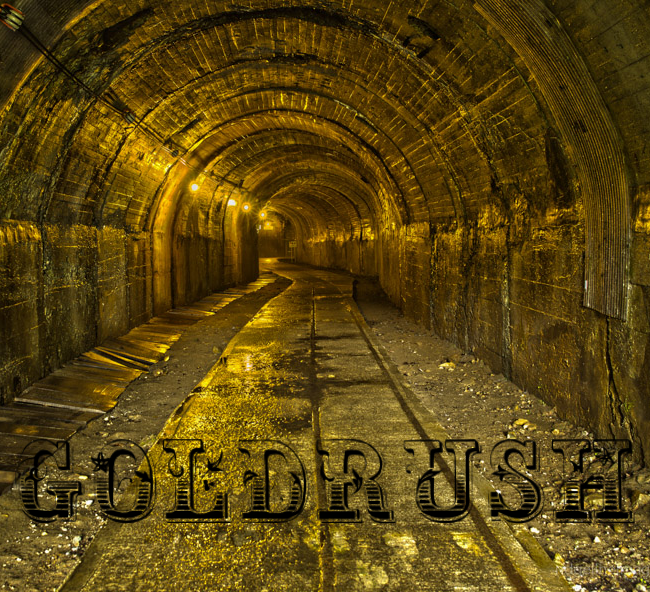
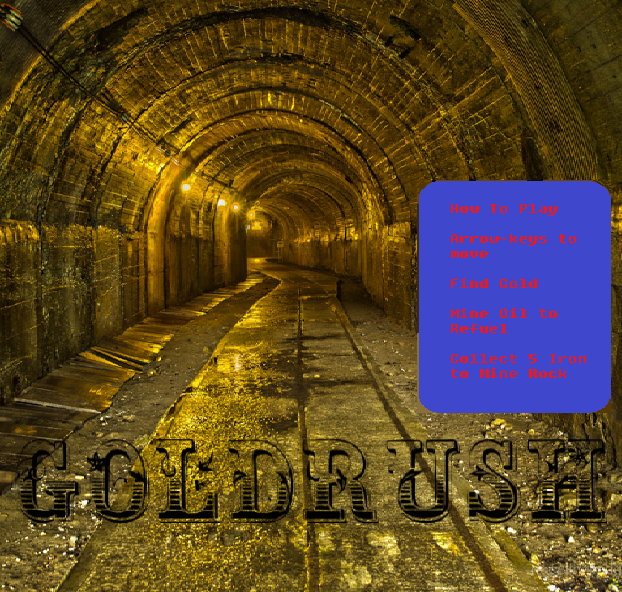
fini

diff --git a/index.js b/index.js
@@ -6,6 +6,8 @@ let rock;
 let gold;
 let dug;
 
+let digSound;
+
 let playerLeft;
 let playerDown;
 let playerRight;
@@ -42,20 +44,23 @@ function preload(){
     iron = loadImage(`img/iron.png`);
     oil = loadImage(`img/oil.png`);
     rock = loadImage(`img/rock.png`);
-    dug = loadImage(`img/dug.png`)
+    dug = loadImage(`img/dug.png`);
+
+    //soundFormats('wav');
+    //digSound = new sound(`img/digging.wav`);
 
     playerLeft = loadImage(`img/player-left.png`);
     playerDown = loadImage(`img/player-down.png`);
     playerRight = loadImage(`img/player-right.png`);
     playerNorm = loadImage(`img/player-norm.png`);
 
-    startScreen = loadImage(`img/start.png`);
+    startScreen = loadImage(`img/start-background-overlay - Copy.png`);
     gameOverScreen = loadImage(`img/newGameOver-background.png`);
     winScreen = loadImage(`img/winScreen.png`);
 }
 
 function setup(){
-    createCanvas(650,1150);
+    createCanvas(650,1500);
     //generateMap(); 
    makeMap();
    
@@ -63,7 +68,7 @@ function setup(){
 }
 
 
-
+/*
 function generateMap(){
      matrix = [
         
@@ -93,12 +98,12 @@ function generateMap(){
 
 ]
 }
-
+*/
 function makeMap() {
     // random map, but I want first 3-4 layers to be empty and bottom two to be rock and gold.
     //to make the first layers empty, change the 0 in the second forloop to be j= 3, then it starts at the third layer
     const row = 13;
-    const col = 23;
+    const col = 25;
     mapArr = [];
   
     for (let i = 1; i < col; i++) {
@@ -116,7 +121,6 @@ function makeMap() {
         for (let g = 0; g < row; g++) { 
             let tempObj = {ground: rock,x:g*50 ,y:i*50};
             mapArr[i].push(tempObj);}
-           
      }else{ 
         for (let k = 0; k < row; k++) { 
             let tempObj = {ground: gold,x:k*50 ,y:i*50};
@@ -220,13 +224,15 @@ function keyPressed(){
     if(keyCode === LEFT_ARROW){
         player.x===0 ? null :player.x-= 50;
         fuel= fuel - 1;
-
+       // digSound.play();
     }else if ( keyCode === RIGHT_ARROW){
         player.x===600 ? null : player.x+= 50;
         fuel= fuel - 1;
+      //  digSound.play();
     }  else if (keyCode === DOWN_ARROW){
         fuel= fuel - 1;
      player.y+= 50;
+    // digSound.play();
     }else if (keyCode === UP_ARROW){
         player.y===0 ? null :player.y-= 50;
         fuel= fuel - 1;

diff --git a/index.html b/index.html
@@ -10,6 +10,7 @@
         <script type="text/javascript" src="index.js"></script>
         <script src="https://cdn.jsdelivr.net/npm/p5@1.6.0/lib/p5.js"></script>
 
+        <script src="path/to/p5.sound.js"></script>
         <button id="restart" onclick="resetGame()" type="button">Play again</button>
         <button id="start" onclick="startGame()" type="button">Play</button>
 

diff --git a/styles.css b/styles.css
@@ -31,9 +31,11 @@
     display: inline-block;
     font-size: 30px;
     transition-duration: 0.4s;
+    border-radius: 15px;
     position: relative;
-    top: 650px;
-    right:30px;
+
+    top: 280px;
+    left:145px;
      visibility: visible;
     
   }
